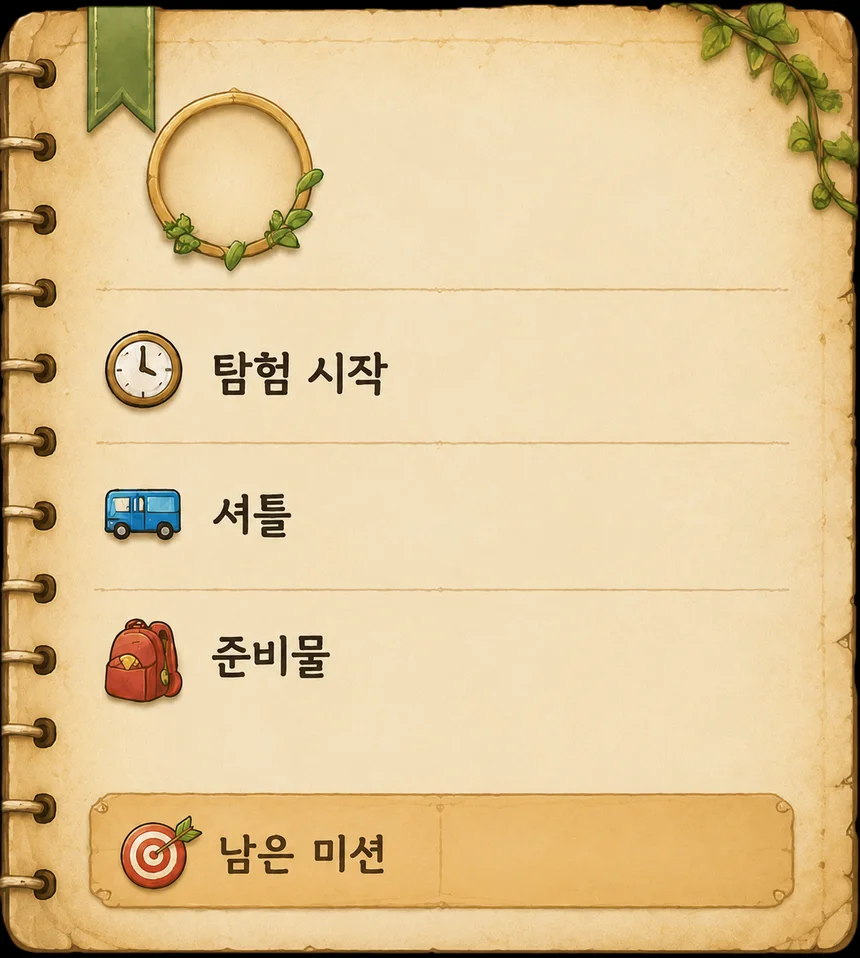
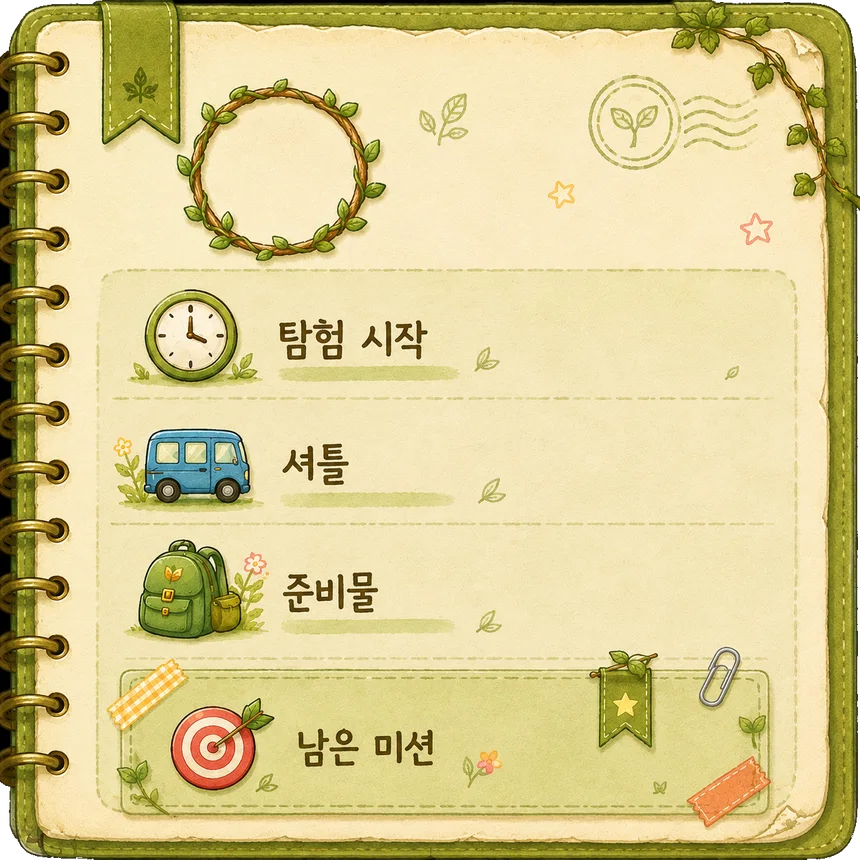
feat: 모험일지 카드 v2 초록 노트 디자인 (#92)
* fix: 모험지도 발자국 길 이탈 수정 — v5 원화에서 모래길 중심선 자동 추출로 경로 재보정

- 짧은/긴 지도 PATH를 원화 색 분류 스캔(모래색 픽셀 행별 추적)으로 재추출
- 짧은 지도 17점 → 46점, 긴 지도 21점 → 68점 (S커브·다리 통과 정밀 반영)
- 다리 구간은 목재 데크라 색 추출이 안 되어 수동 보간

Claude-Session: https://claude.ai/code/session_018maNuYqDfFyRSe9uKpZhPR

* feat: 우측 상단 원형 뱃지 버튼 3종 세로 배치 (엄마용-아이전환-아바타)

- 사용자 신규 원화 4종 탑재: 엄마용(엄마 얼굴)·아이전환(남매)·내아바타(초록 실루엣)·성장캐릭터(새싹)
- 엄마용·아이전환 뱃지 그림 v2로 교체
- 내 아바타/성장캐릭터 토글: 좌측 하단 나무 팻말 → 우측 상단 3번째 원형 뱃지(52px)로 이동
- 배경 꾸미기 장착 시 크림 캡슐 분기 제거 (뱃지가 헤더 영역이라 불필요)
- 원본 4장 art-src/ 보관 + README 갱신, vite build 검증

Claude-Session: https://claude.ai/code/session_018maNuYqDfFyRSe9uKpZhPR

* feat: 모험지도 학원 건물 v6 정글 세트 교체 (나무집·돌아치·텐트·티키오두막)

- 사용자 신규 원화 4종 탑재: trim + 높이 220 + 채도 1.08 + webp q86
- 텐트·티키는 원화의 흰 원을 투명 펀칭(중심 flood-fill) — 이모지 뒤배치 방식 유지
- 구멍 중심·지름 실측(투명 블롭 스캔)으로 cx/cy/d 갱신, k는 구멍 표시 크기 통일 기준 재계산
- 구 건물 webp 4종 삭제(미참조 확인), 원본은 art-src/ 보관 + README 갱신

Claude-Session: https://claude.ai/code/session_018maNuYqDfFyRSe9uKpZhPR

* polish: 모험 홈 무게중심 미세조정 6종 (사용자 픽셀 단위 가이드)

- 캐릭터·펫 컨테이너 20px 위로 (translateY 6→-14) — 하단 시트 눌림감 해소
- 헤드라인 문구 아래 20px·우측 7px (relative, 레이아웃 불변) + 나침반 이모지 간격 축소
- 우측 뱃지 3번째(아바타 토글) marginTop 2px — 간격 착시 보정
- '곧 부화!' 말풍선 알쪽으로 11px 하강 + 4px 우측 — 알과 한 덩어리로
- 시트 핸들바 아래 여백 14→7px — 날짜바 소폭 상승
- 모험 탭 초록 채움 8% 소프트 (#A5BB60→#ACC06D)

Claude-Session: https://claude.ai/code/session_018maNuYqDfFyRSe9uKpZhPR

* polish: 모험지도 라벨·발자국·진행도 개선 (사용자 가이드 8종)

- 이름표 2줄 통일: 1줄 학원명 / 2줄 🕘 시간(진하게) — 전 라벨 동일 규칙
[…]

diff --git a/src/components/AdventureJournalCard.jsx b/src/components/AdventureJournalCard.jsx
@@ -43,45 +43,46 @@ export default function AdventureJournalCard({
           if (dx < 0) { onNext && onNext(); } else { onPrev && onPrev(); }
         }
       }}
-      style={{ position: "relative", width: "100%", aspectRatio: "1181 / 1338", marginBottom: 14, touchAction: "pan-y" }}>
+      style={{ position: "relative", width: "100%", aspectRatio: "1 / 1", marginBottom: 14, touchAction: "pan-y" }}>
+      {/* v2 초록 노트 원화 (1254×1254, 모서리 검정 투명 처리) — 좌표 실측: 리스 (32.3,19.6) / 행 y 39.1·53.8·68.6 / 배너 86.9 */}
       <img src="assets/journal-card.webp" alt="" draggable={false}
-        style={{ position: "absolute", inset: 0, width: "100%", height: "100%", display: "block", filter: "drop-shadow(0 6px 14px rgba(93,70,51,0.20))" }} />
+        style={{ position: "absolute", inset: 0, width: "100%", height: "100%", display: "block", filter: "drop-shadow(0 6px 14px rgba(74,90,37,0.22))" }} />
 
-      {/* 엠블럼 — 나무 링 안 학원 이모지 */}
-      <span style={{ position: "absolute", left: "27.7%", top: "18.2%", transform: "translate(-50%,-50%)",
-        fontSize: "clamp(30px, 11.5vw, 52px)", lineHeight: 1, pointerEvents: "none" }}>{icon}</span>
+      {/* 엠블럼 — 잎 리스 안 학원 이모지 */}
+      <span style={{ position: "absolute", left: "32.3%", top: "19.6%", transform: "translate(-50%,-50%)",
+        fontSize: "clamp(32px, 12vw, 56px)", lineHeight: 1, pointerEvents: "none" }}>{icon}</span>
 
-      {/* 제목 — 던전명(손글씨 크게) + 학원명(부제) */}
-      <div style={{ position: "absolute", left: "40%", right: "5%", top: "7.5%", height: "21%",
+      {/* 제목 — 던전명(손글씨 크게) + 학원명(부제), 리스 우측 여백 */}
+      <div style={{ position: "absolute", left: "45%", right: "7%", top: "16.5%", height: "14%",
         display: "flex", flexDirection: "column", alignItems: "center", justifyContent: "center", textAlign: "center", pointerEvents: "none" }}>
         <p style={{ margin: 0, fontFamily: F_HAND, fontWeight: 400, fontSize: "clamp(19px, 6.6vw, 30px)",
-          color: "#4E392A", lineHeight: 1.15, textShadow: "0 1px 0 rgba(255,246,224,0.6)",
+          color: "#4E432A", lineHeight: 1.15, textShadow: "0 1px 0 rgba(255,250,230,0.6)",
           overflow: "hidden", textOverflow: "ellipsis", whiteSpace: "nowrap", maxWidth: "100%" }}>{title}</p>
         <p style={{ margin: "2px 0 0", fontFamily: F_BODY, fontWeight: 400, fontSize: "clamp(12px, 3.9vw, 17px)",
-          color: "#7A6248", overflow: "hidden", textOverflow: "ellipsis", whiteSpace: "nowrap", maxWidth: "100%" }}>{name}</p>
+          color: "#7A6E48", overflow: "hidden", textOverflow: "ellipsis", whiteSpace: "nowrap", maxWidth: "100%" }}>{name}</p>
       </div>
 
       {/* 탐험 시작 — 시각 + (오늘) 남은시간 한 줄 */}
-      <div style={{ position: "absolute", right: "8%", top: "38.1%", transform: "translateY(-50%)", textAlign: "right", pointerEvents: "none" }}>
-        <p style={{ margin: 0, fontFamily: F_BODY, fontWeight: 400, fontSize: "clamp(15px, 4.9vw, 22px)", color: "#4E392A", lineHeight: 1.15 }}>{time}</p>
-        {remain && <p style={{ margin: "2px 0 0", fontFamily: F_BODY, fontSize: "clamp(10px, 3.2vw, 13px)", color: "#8A6B47" }}>{remain}</p>}
+      <div style={{ position: "absolute", right: "12.5%", top: "39.1%", transform: "translateY(-50%)", textAlign: "right", pointerEvents: "none" }}>
+        <p style={{ margin: 0, fontFamily: F_BODY, fontWeight: 400, fontSize: "clamp(15px, 4.9vw, 22px)", color: "#4E432A", lineHeight: 1.15 }}>{time}</p>
+        {remain && <p style={{ margin: "2px 0 0", fontFamily: F_BODY, fontSize: "clamp(10px, 3.2vw, 13px)", color: "#7A6E48" }}>{remain}</p>}
       </div>
 
       {/* 셔틀 */}
-      <div style={{ position: "absolute", right: "8%", top: "53.4%", transform: "translateY(-50%)", maxWidth: "52%", textAlign: "right", pointerEvents: "none" }}>
-        <p style={{ margin: 0, fontFamily: F_BODY, fontWeight: 400, fontSize: "clamp(13px, 4.2vw, 18px)", color: "#4E392A", lineHeight: 1.3,
+      <div style={{ position: "absolute", right: "12.5%", top: "53.8%", transform: "translateY(-50%)", maxWidth: "42%", textAlign: "right", pointerEvents: "none" }}>
+        <p style={{ margin: 0, fontFamily: F_BODY, fontWeight: 400, fontSize: "clamp(13px, 4.2vw, 18px)", color: "#4E432A", lineHeight: 1.3,
           display: "-webkit-box", WebkitLineClamp: 2, WebkitBoxOrient: "vertical", overflow: "hidden" }}>{shuttle}</p>
       </div>
 
       {/* 준비물 — 체크 칩 (App이 토글 포함해 내려줌, 많으면 스크롤) */}
-      <div style={{ position: "absolute", left: "41%", right: "5.5%", top: "61.5%", height: "17%",
+      <div style={{ position: "absolute", left: "46%", right: "12%", top: "62%", height: "13.5%",
         display: "flex", flexWrap: "wrap", gap: 5, alignContent: "center", justifyContent: "flex-end", overflowY: "auto" }}>
         {supplies}
       </div>
 
-      {/* 남은 미션 배너 값 */}
-      <div style={{ position: "absolute", right: "9%", top: "87%", transform: "translateY(-50%)", pointerEvents: "none" }}>
-        <p style={{ margin: 0, fontFamily: F_BODY, fontWeight: 400, fontSize: "clamp(15px, 5vw, 22px)", color: missionTone, whiteSpace: "nowrap" }}>{missionText}</p>
+      {/* 남은 미션 배너 값 — 라벨과 깃발 장식 사이 공간 */}
+      <div style={{ position: "absolute", left: "53%", top: "86.9%", transform: "translateY(-50%)", pointerEvents: "none" }}>
+        <p style={{ margin: 0, fontFamily: F_BODY, fontWeight: 400, fontSize: "clamp(13.5px, 4.4vw, 19px)", color: missionTone, whiteSpace: "nowrap" }}>{missionText}</p>
       </div>
     </div>
   );

diff --git a/src/App.jsx b/src/App.jsx
@@ -4056,7 +4056,7 @@ export default function App() {
                         time={sc?.time?toKoreanTime(sc.time):"-"}
                         remain={rl?`${rl.icon} ${rl.text}`:""}
                         shuttle={shuttleText||"없음"}
-                        missionText={totalTodoCnt===0?"미션 없음":allDone?"🎉 클리어!":`${totalTodoCnt-doneCnt}개 남음`}
+                        missionText={totalTodoCnt===0?"없음":allDone?"클리어!":`${totalTodoCnt-doneCnt}개`}
                         missionTone={totalTodoCnt===0?"#8A7458":allDone?"#4E7B3A":"#B4652A"}
                         supplies={<>
                           {baseSup.map((s,i)=>{

diff --git a/art-src/README.md b/art-src/README.md
@@ -37,4 +37,5 @@ ChatGPT로 생성한 **가공 전 원본 이미지**를 보관한다. 배포(dis
 | map-bld-tent.png | 지도 학원 건물 v6-3 (탐험가 텐트, 흰 원→투명 펀칭 탑재) | map-bld-tent.webp |
 | map-bld-tikihut.png | 지도 학원 건물 v6-4 (티키 초가 오두막, 흰 원→투명 펀칭 탑재) | map-bld-tikihut.webp |
 | adventure-map-short-src.png | 모험 지도 배경 원화 v2 (3:5 양피지 972×1619, 학원 0~2곳용) | adventure-map-short.webp |
-| journal-card-src.png | 모험일지 학원 카드 양피지 노트 원화 (1181×1338, 값 오버레이용) | journal-card.webp |
+| journal-card-src.png | 모험일지 학원 카드 양피지 노트 원화 (1181×1338, 구) | (교체됨) |
+| journal-card-v2-src.png | 모험일지 초록 노트 원화 v2 (1254×1254, 모서리 검정→투명 펀칭 탑재) | journal-card.webp |
